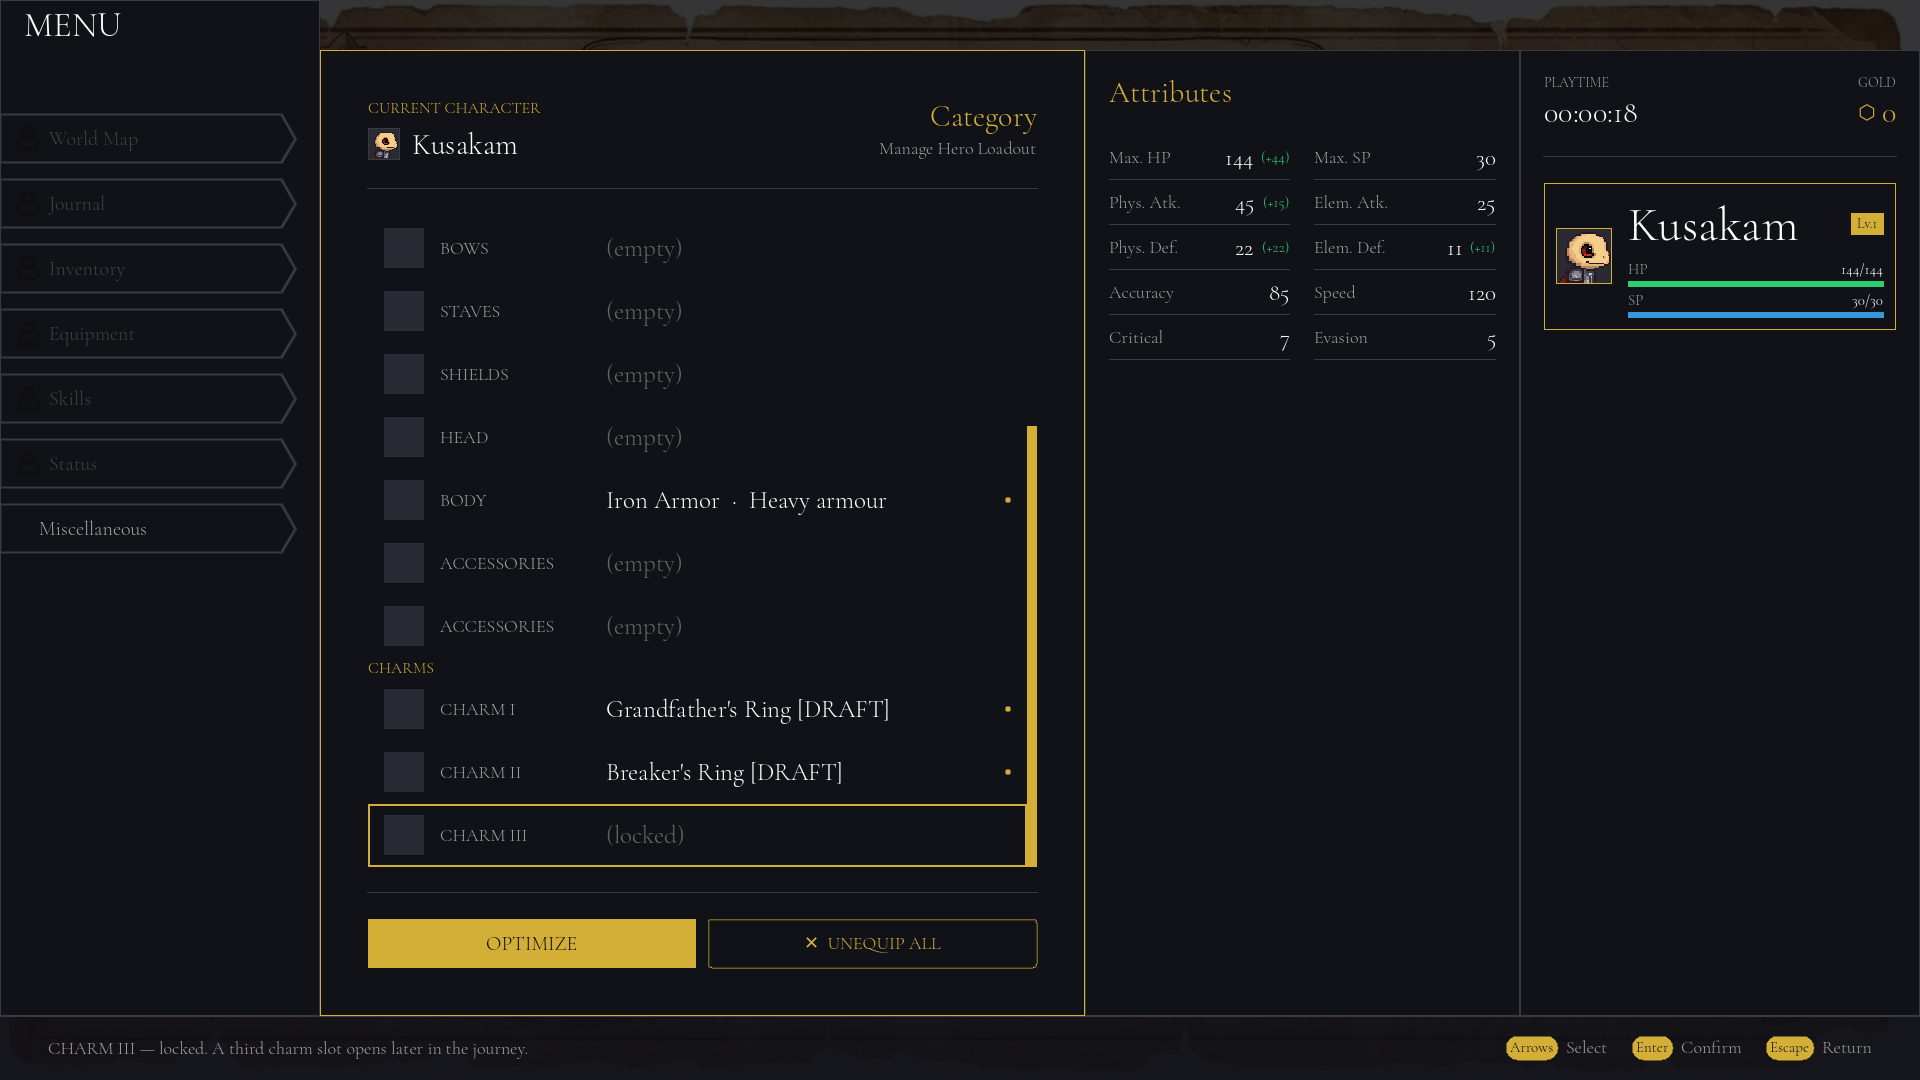
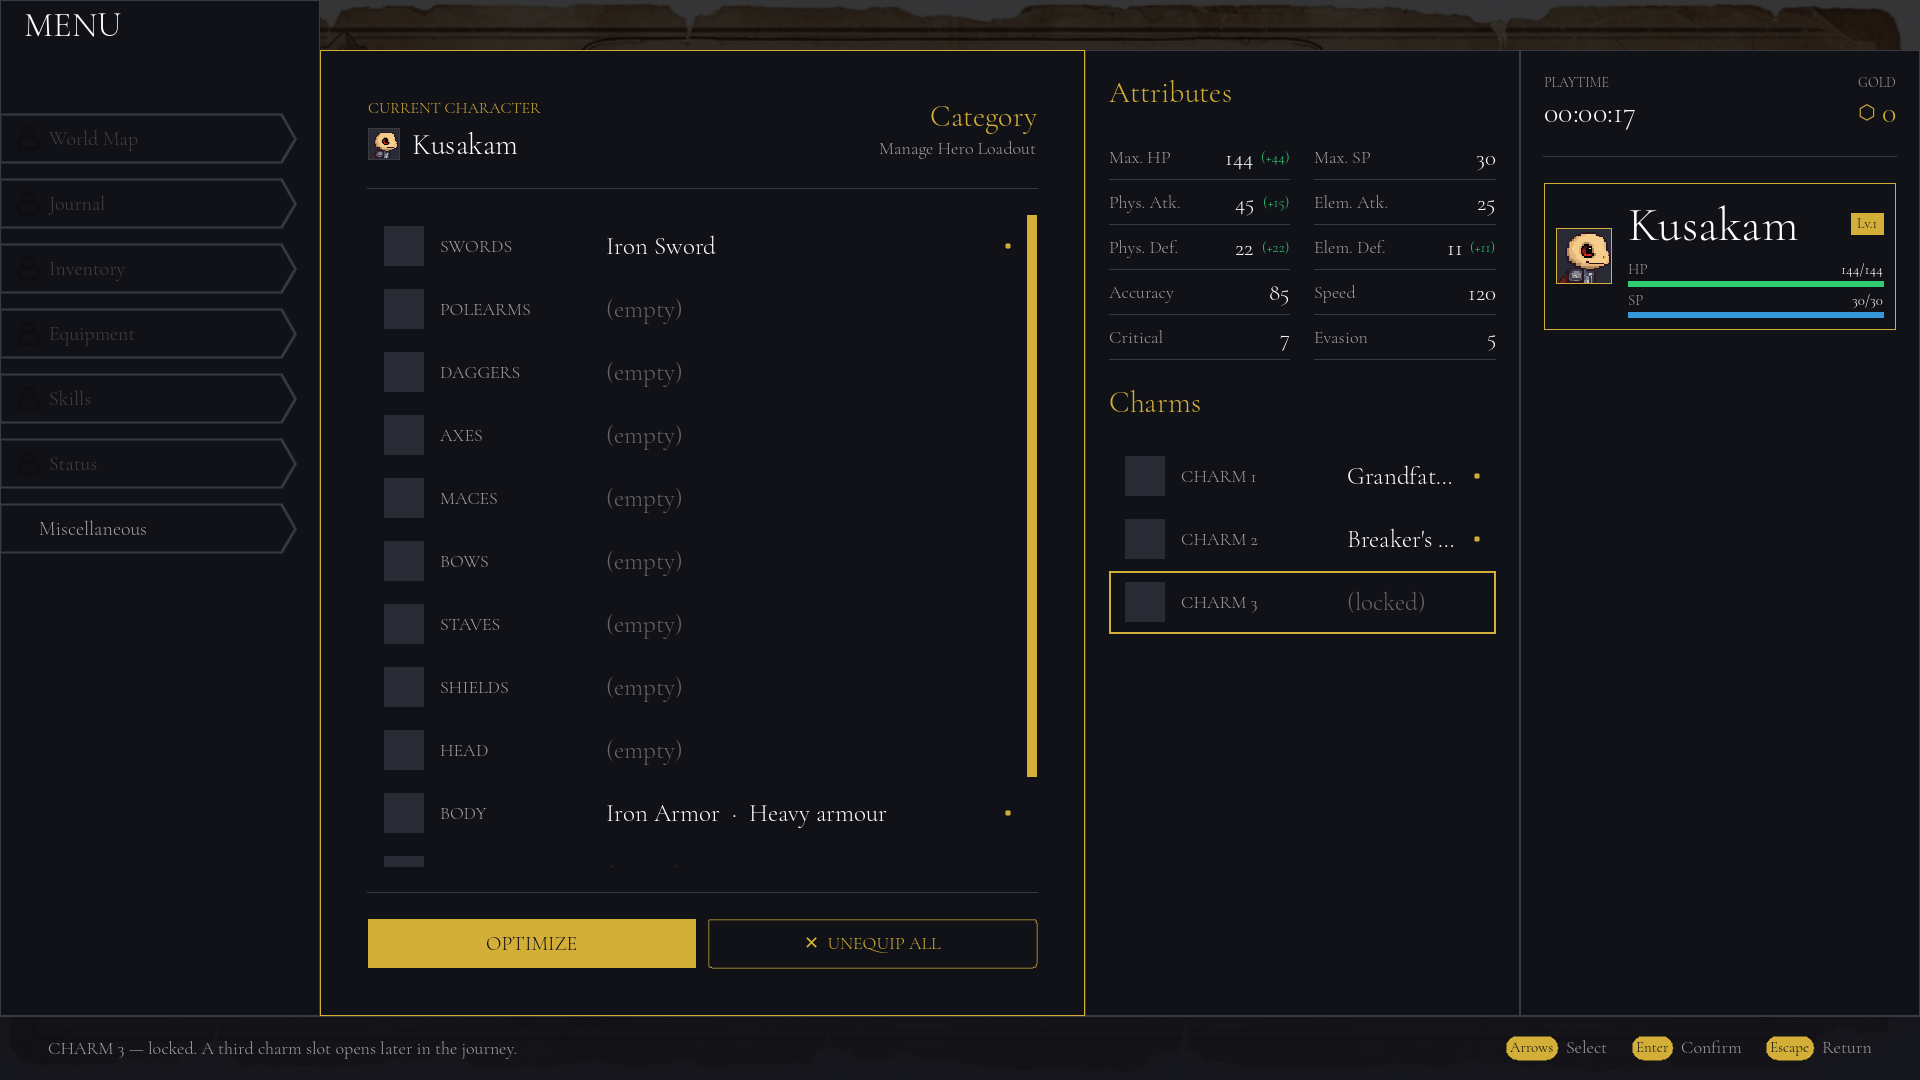
Charms: section moved under Attributes (fits the screen), captions 1-3, unarmoured is medium, ArmourWeight free of autoloads
Claude-Session: https://claude.ai/code/session_01YYktvAZLssSRzQMyxiCnnV

diff --git a/design/charms_plan.md b/design/charms_plan.md
@@ -65,13 +65,13 @@ A chest gets `charm = "<id>"` (`Chest.gd`); the modal names the charm.
 
 ### Armour weight (`armour_weight.json`)
 
-Body armour carries `"weight"` in `items.json`; the worn body armour sets the hero's class (none worn = light).
+Body armour carries `"weight"` in `items.json`; the worn body armour sets the hero's class (none worn = medium, the plain roll).
 Helmets and shields carry no weight.
 
 | Class | Roll | Defence | Items |
 |---|---|---|---|
-| light | +15 % | +0 | `leather_armor`, no body armour |
-| medium | 0 | +0 | none yet (the class exists for later armour) |
+| light | +15 % | +0 | `leather_armor` |
+| medium | 0 | +0 | no body armour (the plain roll) |
 | heavy | −15 % | +2 (and +4 max HP: 2 HP per defence) | `iron_armor` |
 
 Heavy's +2 is added in `GameCharacter.get_equipment_stats`, so Phys. Def., `mitigated_damage` and `verify_difficulty`
